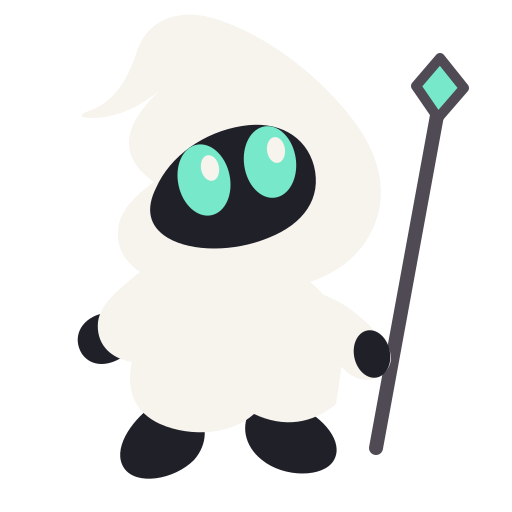
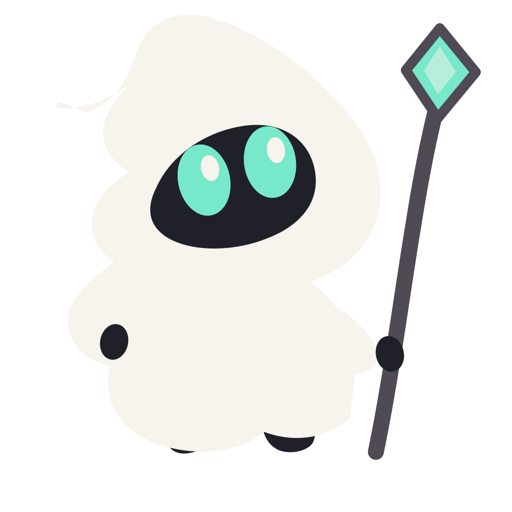
feat: refine Una and add theme control

diff --git a/app/portfolio-app.tsx b/app/portfolio-app.tsx
@@ -29,6 +29,7 @@ import { isShotQuery, SHOT_VIEWS } from "./lib/shot-fixture";
 import { relaySucceeded, sendWalletCalls, type ConnectedEvmWallet } from "./lib/wallet-calls";
 
 type ViewTab = "overview" | "markets";
+type ThemePreference = "system" | "light" | "dark";
 type PlanState = { kind: "idle" | "planning" | "ready" | "signing" | "waiting" | "submitted" | "error"; message?: string };
 type AnyPositionActionPlan = PositionActionPlan | SolanaPositionActionPlan;
 type IndexChain = ChainSlug | "solana";
@@ -82,6 +83,7 @@ export function PortfolioApp() {
   const { ready: solanaReady, wallets: solanaWallets } = useSolanaWallets();
   const { signTransaction } = useSignTransaction();
   const [tab, setTab] = useState<ViewTab>("overview");
+  const [theme, setTheme] = useState<ThemePreference>("system");
   const [amount, setAmount] = useState("1.00");
   const [sourceChainId, setSourceChainId] = useState(8453);
   const [markets, setMarkets] = useState<MarketsPayload>(EMPTY_MARKETS);
@@ -138,6 +140,11 @@ export function PortfolioApp() {
   }, [address, authenticated, solanaAddress, solanaReady]);
 
   useEffect(() => {
+    const saved = document.documentElement.dataset.theme;
+    if (saved === "light" || saved === "dark") setTheme(saved);
+  }, []);
+
+  useEffect(() => {
     const params = new URLSearchParams(window.location.search);
     const requested = params.get("view");
     if (requested === "markets" || requested === "positions") setTab("markets");
@@ -190,6 +197,27 @@ export function PortfolioApp() {
     if (next === "overview") url.searchParams.delete("view");
     else url.searchParams.set("view", next);
     window.history.replaceState(null, "", `${url.pathname}${url.search}`);
+  }
+
+  function cycleTheme() {
+    const next: ThemePreference = theme === "system" ? "light" : theme === "light" ? "dark" : "system";
+    setTheme(next);
+    if (next === "system") delete document.documentElement.dataset.theme;
+    else document.documentElement.dataset.theme = next;
+    try {
+      if (next === "system") window.localStorage.removeItem("una-theme");
+      else window.localStorage.setItem("una-theme", next);
+    } catch {
+      // The selected theme still applies for this session when storage is unavailable.
+    }
+    const existingMeta = document.getElementById("una-theme-color");
+    if (next === "system") existingMeta?.remove();
+    else {
+      const meta = existingMeta ?? document.head.appendChild(document.createElement("meta"));
+      meta.id = "una-theme-color";
+      meta.setAttribute("name", "theme-color");
+      meta.setAttribute("content", next === "dark" ? "#09090d" : "#f8f5ef");
+    }
   }
 
   async function prepareIndex() {
@@ -336,8 +364,8 @@ export function PortfolioApp() {
       <header className="index-nav">
         <button className="una-wordmark" type="button" onClick={() => changeTab("overview")} aria-label="Una overview">
           <picture className="una-mark" aria-hidden="true">
-            <source media="(prefers-color-scheme: dark)" srcSet="/brand/una-mascot-dark.svg" />
-            <img src="/brand/una-mascot-light.svg" alt="" />
+            {theme === "system" ? <source media="(prefers-color-scheme: dark)" srcSet="/brand/una-mascot-dark.svg" /> : null}
+            <img src={theme === "dark" ? "/brand/una-mascot-dark.svg" : "/brand/una-mascot-light.svg"} alt="" />
           </picture>
           <span>Una</span>
         </button>
@@ -347,6 +375,9 @@ export function PortfolioApp() {
           ))}
         </nav>
         <div className="nav-actions">
+          <button className="theme-button" type="button" onClick={cycleTheme} aria-label={`Theme: ${capitalize(theme)}. Switch to ${theme === "system" ? "light" : theme === "light" ? "dark" : "system"}.`} title={`Theme: ${capitalize(theme)}`}>
+            <ThemeIcon preference={theme} />
+          </button>
           {!ready ? <span className="wallet-skeleton" /> : authenticated ? (
             <button className="wallet-button" type="button" onClick={() => void logout()} title="Sign out">
               <WalletIcon /> {short(address ?? "Wallet")}
@@ -471,7 +502,7 @@ function MarketAction({ amount, onAmount, sourceChainId, onSourceChain, fundingC
           <span className="market-stack" aria-label={loading ? "Reading markets" : markets.map(({ market }) => market.symbol).join(", ")}>
             {loading ? Array.from({ length: INDEX_MARKET_COUNT }, (_, index) => <i key={index} />) : markets.map(({ market }) => <TokenIcon key={market.id} symbol={market.symbol} src={stats.get(market.id)?.tokenImageUrl} color={market.color} />)}
           </span>
-          <span><b>{loading ? INDEX_MARKET_COUNT : constituentCount} markets</b><small>{constituentCount >= maximumConstituents ? "Full index" : "More with a larger deposit"}</small></span>
+          <span><b>{loading ? "Reading markets" : `${constituentCount} markets`}</b><small>{loading ? "Current index" : constituentCount >= maximumConstituents ? "Full index" : "More with a larger deposit"}</small></span>
         </span>
         <span className="action-economics"><small>24h fee APR</small><b>{formatFeeApr(feeApr)}</b></span>
       </div>
@@ -756,6 +787,16 @@ function trimEth(value: bigint): string {
 
 function short(value: string): string {
   return value.startsWith("0x") && value.length > 12 ? `${value.slice(0, 6)}…${value.slice(-4)}` : value;
+}
+
+function capitalize(value: string): string {
+  return `${value.slice(0, 1).toUpperCase()}${value.slice(1)}`;
+}
+
+function ThemeIcon({ preference }: { preference: ThemePreference }) {
+  if (preference === "light") return <svg viewBox="0 0 24 24" aria-hidden="true"><circle cx="12" cy="12" r="3.5" /><path d="M12 2v2M12 20v2M4.9 4.9l1.4 1.4M17.7 17.7l1.4 1.4M2 12h2M20 12h2M4.9 19.1l1.4-1.4M17.7 6.3l1.4-1.4" /></svg>;
+  if (preference === "dark") return <svg viewBox="0 0 24 24" aria-hidden="true"><path d="M20 15.2A8.5 8.5 0 0 1 8.8 4 8.5 8.5 0 1 0 20 15.2Z" /></svg>;
+  return <svg viewBox="0 0 24 24" aria-hidden="true"><rect x="3" y="4" width="18" height="13" rx="2.5" /><path d="M8 21h8M12 17v4M12 4v13" /></svg>;
 }
 
 function TokenIcon({ symbol, src, color }: { symbol: string; src?: string | null; color?: string }) {

diff --git a/test/app-ui.test.ts b/test/app-ui.test.ts
@@ -47,6 +47,9 @@ describe("meme index product UI", () => {
     expect(css).toContain("--canvas: #09090d");
     expect(css).toContain("--surface: #111116");
     expect(css).toContain("@media (prefers-color-scheme: dark)");
+    expect(css).toContain(':root[data-theme="dark"]');
+    expect(layout).toContain('localStorage.getItem("una-theme")');
+    expect(portfolio).toContain('Theme: ${capitalize(theme)}');
     expect(css).not.toMatch(/#FC72FF|#FF37C7|#ff007a/i);
     expect(css).not.toContain("Instrument Serif");
     expect(css).not.toMatch(/gradient/i);
@@ -65,6 +68,13 @@ describe("meme index product UI", () => {
     expect(mascot).not.toContain('rx="9" ry="13"');
   });
 
+  it("keeps Una round and tiny-limbed with an oversized playful staff", () => {
+    expect(mascot).toContain("tiny hands and feet");
+    expect(mascot).toContain("M89 207c-5 5-8 14-3 18");
+    expect(mascot).toContain("m220 14 18 22-19 23-16-24 17-21Z");
+    expect(mascot).not.toContain("M76 203c-11 8-20 22");
+  });
+
   it("keeps the launch surface Robinhood-specific while preserving self-custody", () => {
     expect(portfolio).toContain("Robinhood Una Index");
     expect(portfolio).toContain("Una agents regularly review which markets qualify.");
@@ -74,6 +84,8 @@ describe("meme index product UI", () => {
     expect(portfolio).toContain("Self-custodial");
     expect(portfolio).toContain("Two wallet approvals: deposit from");
     expect(portfolio).toContain('useState("1.00")');
+    expect(portfolio).toContain('loading ? "Reading markets"');
+    expect(portfolio).not.toContain("loading ? INDEX_MARKET_COUNT : constituentCount");
     expect(portfolio).toContain("Ready to collect");
     expect(portfolio).not.toContain("Your liquidity and the index, in one place.");
     expect(portfolio).not.toContain("Deposit ETH. Earn trading fees across Base, Robinhood, and Solana.");

diff --git a/app/globals.css b/app/globals.css
@@ -33,7 +33,7 @@
 }
 
 @media (prefers-color-scheme: dark) {
-  :root {
+  :root:not([data-theme]) {
     color-scheme: dark;
     --ink: #f7f3ed;
     --ink-soft: #cbc6ca;
@@ -62,6 +62,36 @@
     --connect-hover-bg: #fff;
     --coral-hover: #ff8394;
   }
+}
+
+:root[data-theme="dark"] {
+  color-scheme: dark;
+  --ink: #f7f3ed;
+  --ink-soft: #cbc6ca;
+  --muted: #98939d;
+  --muted-2: #8a8690;
+  --canvas: #09090d;
+  --surface: #111116;
+  --surface-2: #17171e;
+  --surface-3: #202029;
+  --line: rgba(255, 255, 255, .08);
+  --line-strong: rgba(255, 255, 255, .14);
+  --mint: #77e8c9;
+  --blue: #78a3ff;
+  --green: #5ee8aa;
+  --orange: #ff936d;
+  --nav-bg: rgba(9, 9, 13, .94);
+  --selection-bg: rgba(255, 111, 131, .3);
+  --preview-bg: rgba(120, 163, 255, .12);
+  --preview-ink: #a9c3ff;
+  --card-shadow: none;
+  --token-shadow: none;
+  --row-hover: rgba(255, 255, 255, .018);
+  --empty-tint: rgba(255, 111, 131, .035);
+  --connect-bg: #f7f3ed;
+  --connect-ink: #141318;
+  --connect-hover-bg: #fff;
+  --coral-hover: #ff8394;
 }
 
 * { box-sizing: border-box; }
@@ -161,7 +191,20 @@ svg {
 .index-nav nav button.is-active { color: var(--ink); }
 .index-nav nav button.is-active { box-shadow: inset 0 -2px var(--coral); }
 
-.nav-actions { display: flex; align-items: center; }
+.nav-actions { display: flex; align-items: center; gap: 4px; }
+
+.theme-button {
+  display: inline-grid;
+  width: 44px;
+  height: 44px;
+  flex: 0 0 44px;
+  place-items: center;
+  border-radius: 12px;
+  color: var(--muted);
+}
+
+.theme-button:hover { background: var(--surface-2); color: var(--ink); }
+.theme-button svg { width: 19px; height: 19px; }
 
 .wallet-button,
 .wallet-skeleton {

diff --git a/app/layout.tsx b/app/layout.tsx
@@ -3,6 +3,8 @@ import { Plus_Jakarta_Sans, Unbounded } from "next/font/google";
 import { Providers } from "./providers";
 import "./globals.css";
 
+const themeBootScript = `(()=>{try{const theme=localStorage.getItem("una-theme");if(theme==="light"||theme==="dark"){document.documentElement.dataset.theme=theme;const meta=document.createElement("meta");meta.name="theme-color";meta.id="una-theme-color";meta.content=theme==="dark"?"#09090d":"#f8f5ef";document.head.appendChild(meta)}}catch{}})()`;
+
 const sans = Plus_Jakarta_Sans({
   subsets: ["latin"],
   weight: ["400", "500", "600", "700", "800"],
@@ -46,7 +48,8 @@ export const viewport: Viewport = {
 
 export default function RootLayout({ children }: { children: React.ReactNode }) {
   return (
-    <html lang="en">
+    <html lang="en" suppressHydrationWarning>
+      <head><script dangerouslySetInnerHTML={{ __html: themeBootScript }} /></head>
       <body className={`${sans.variable} ${display.variable} ${sans.className}`}>
         <Providers>{children}</Providers>
       </body>
